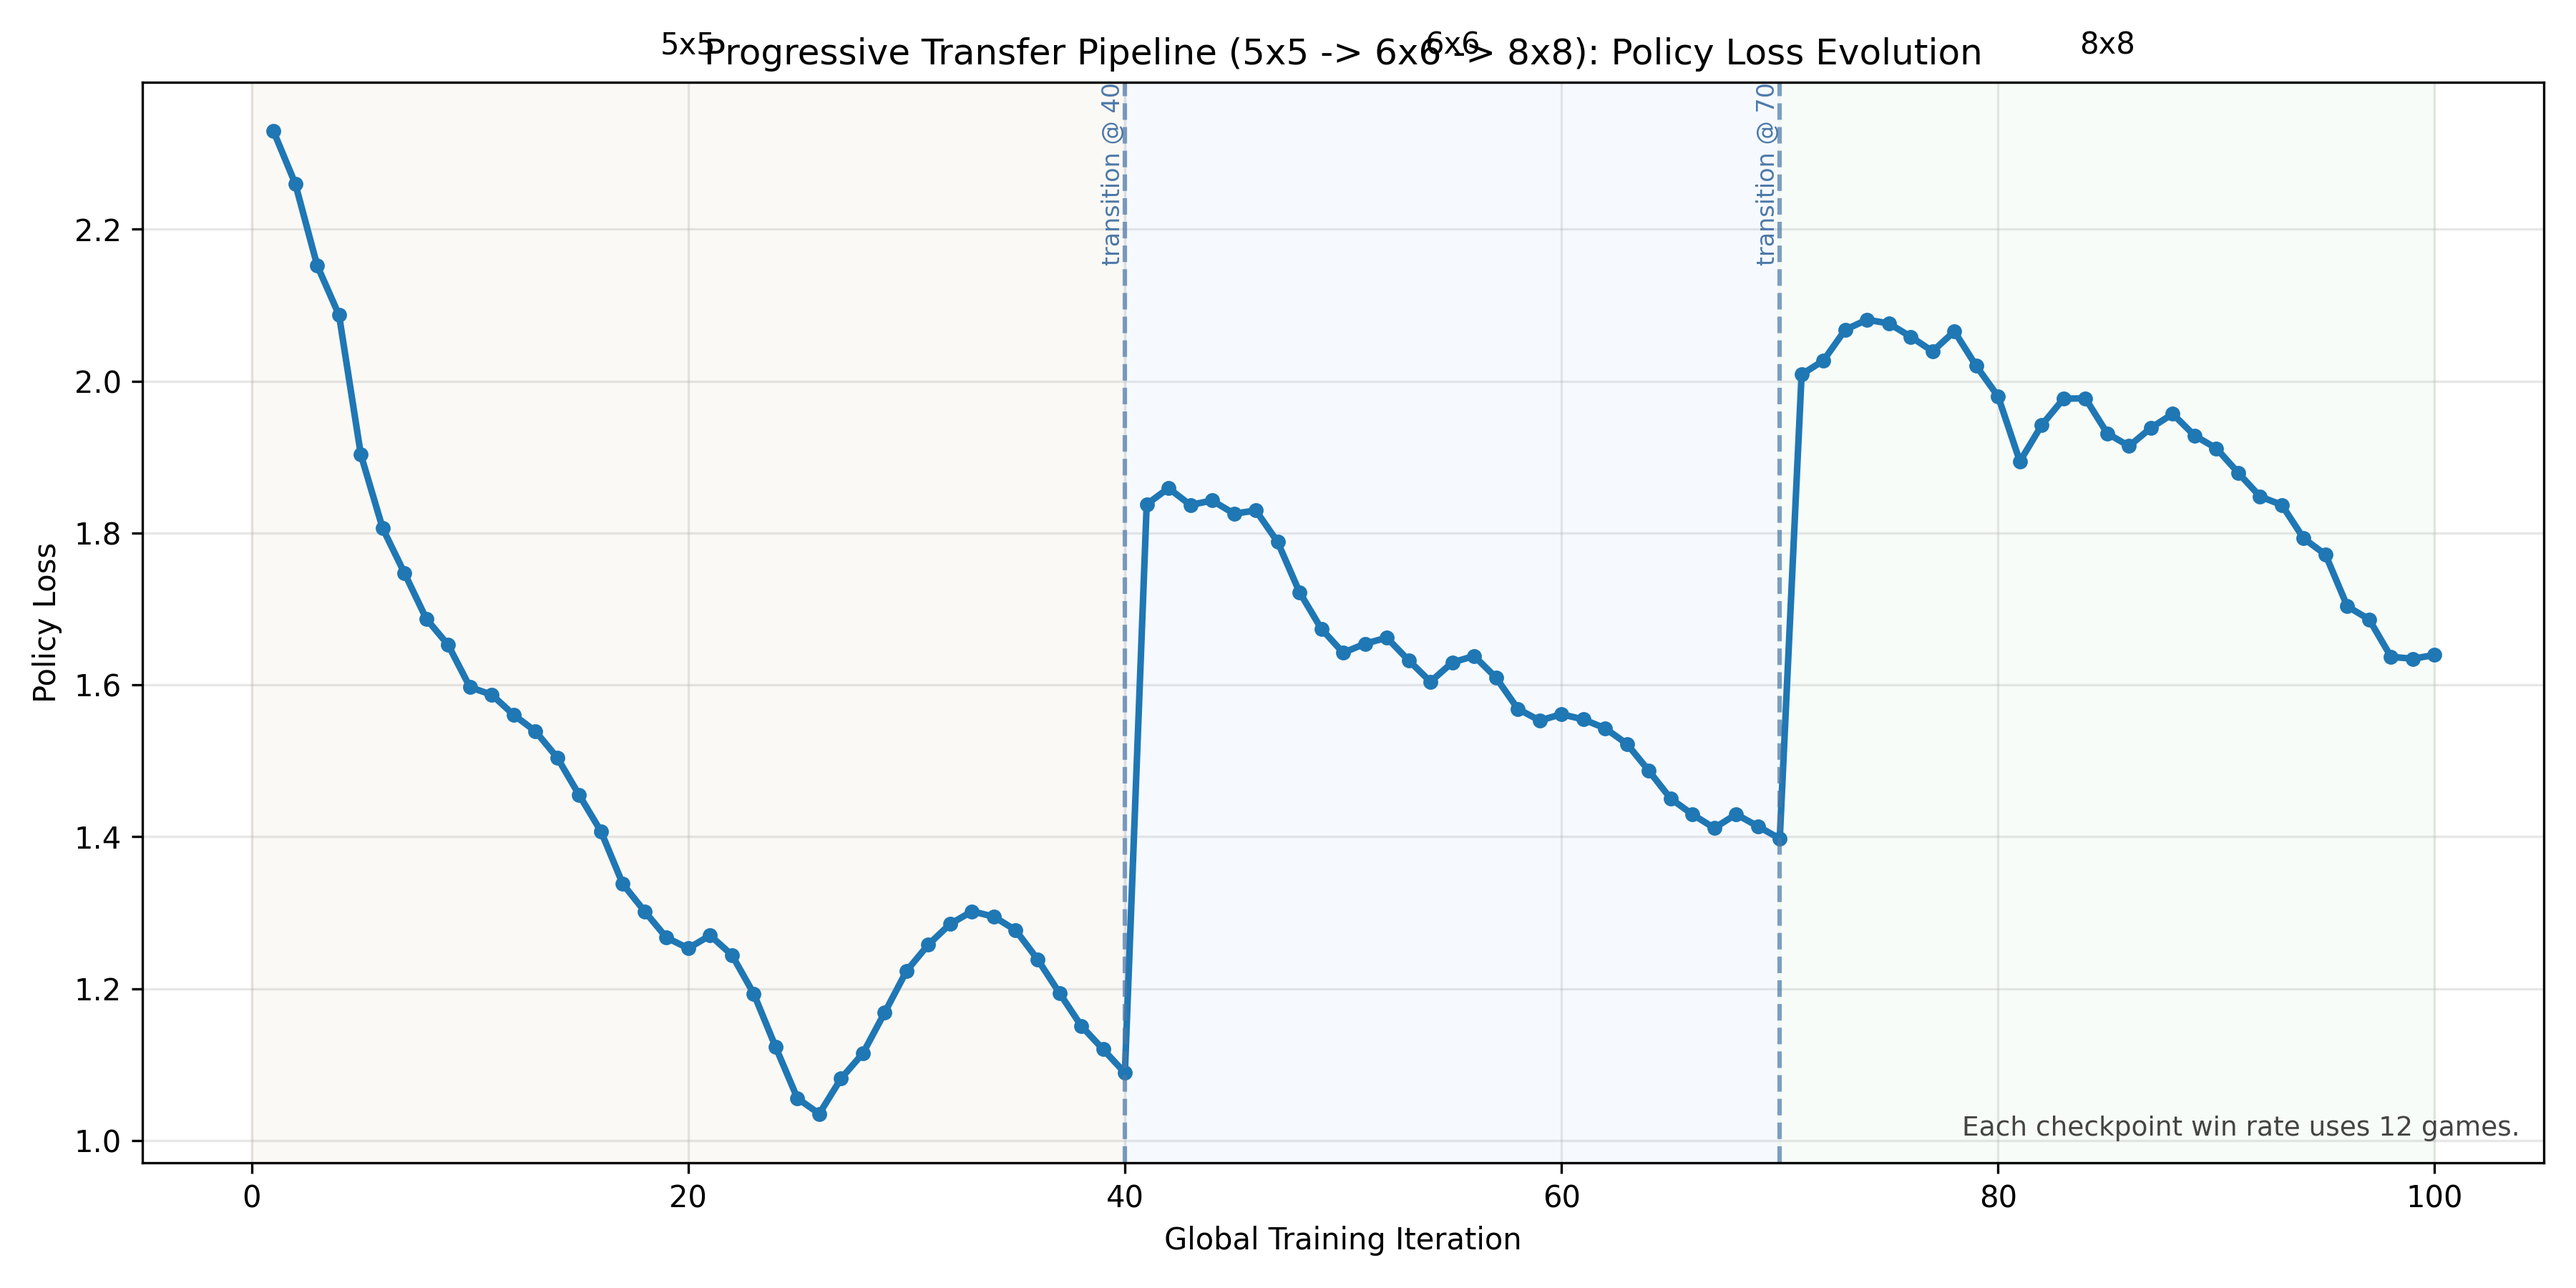
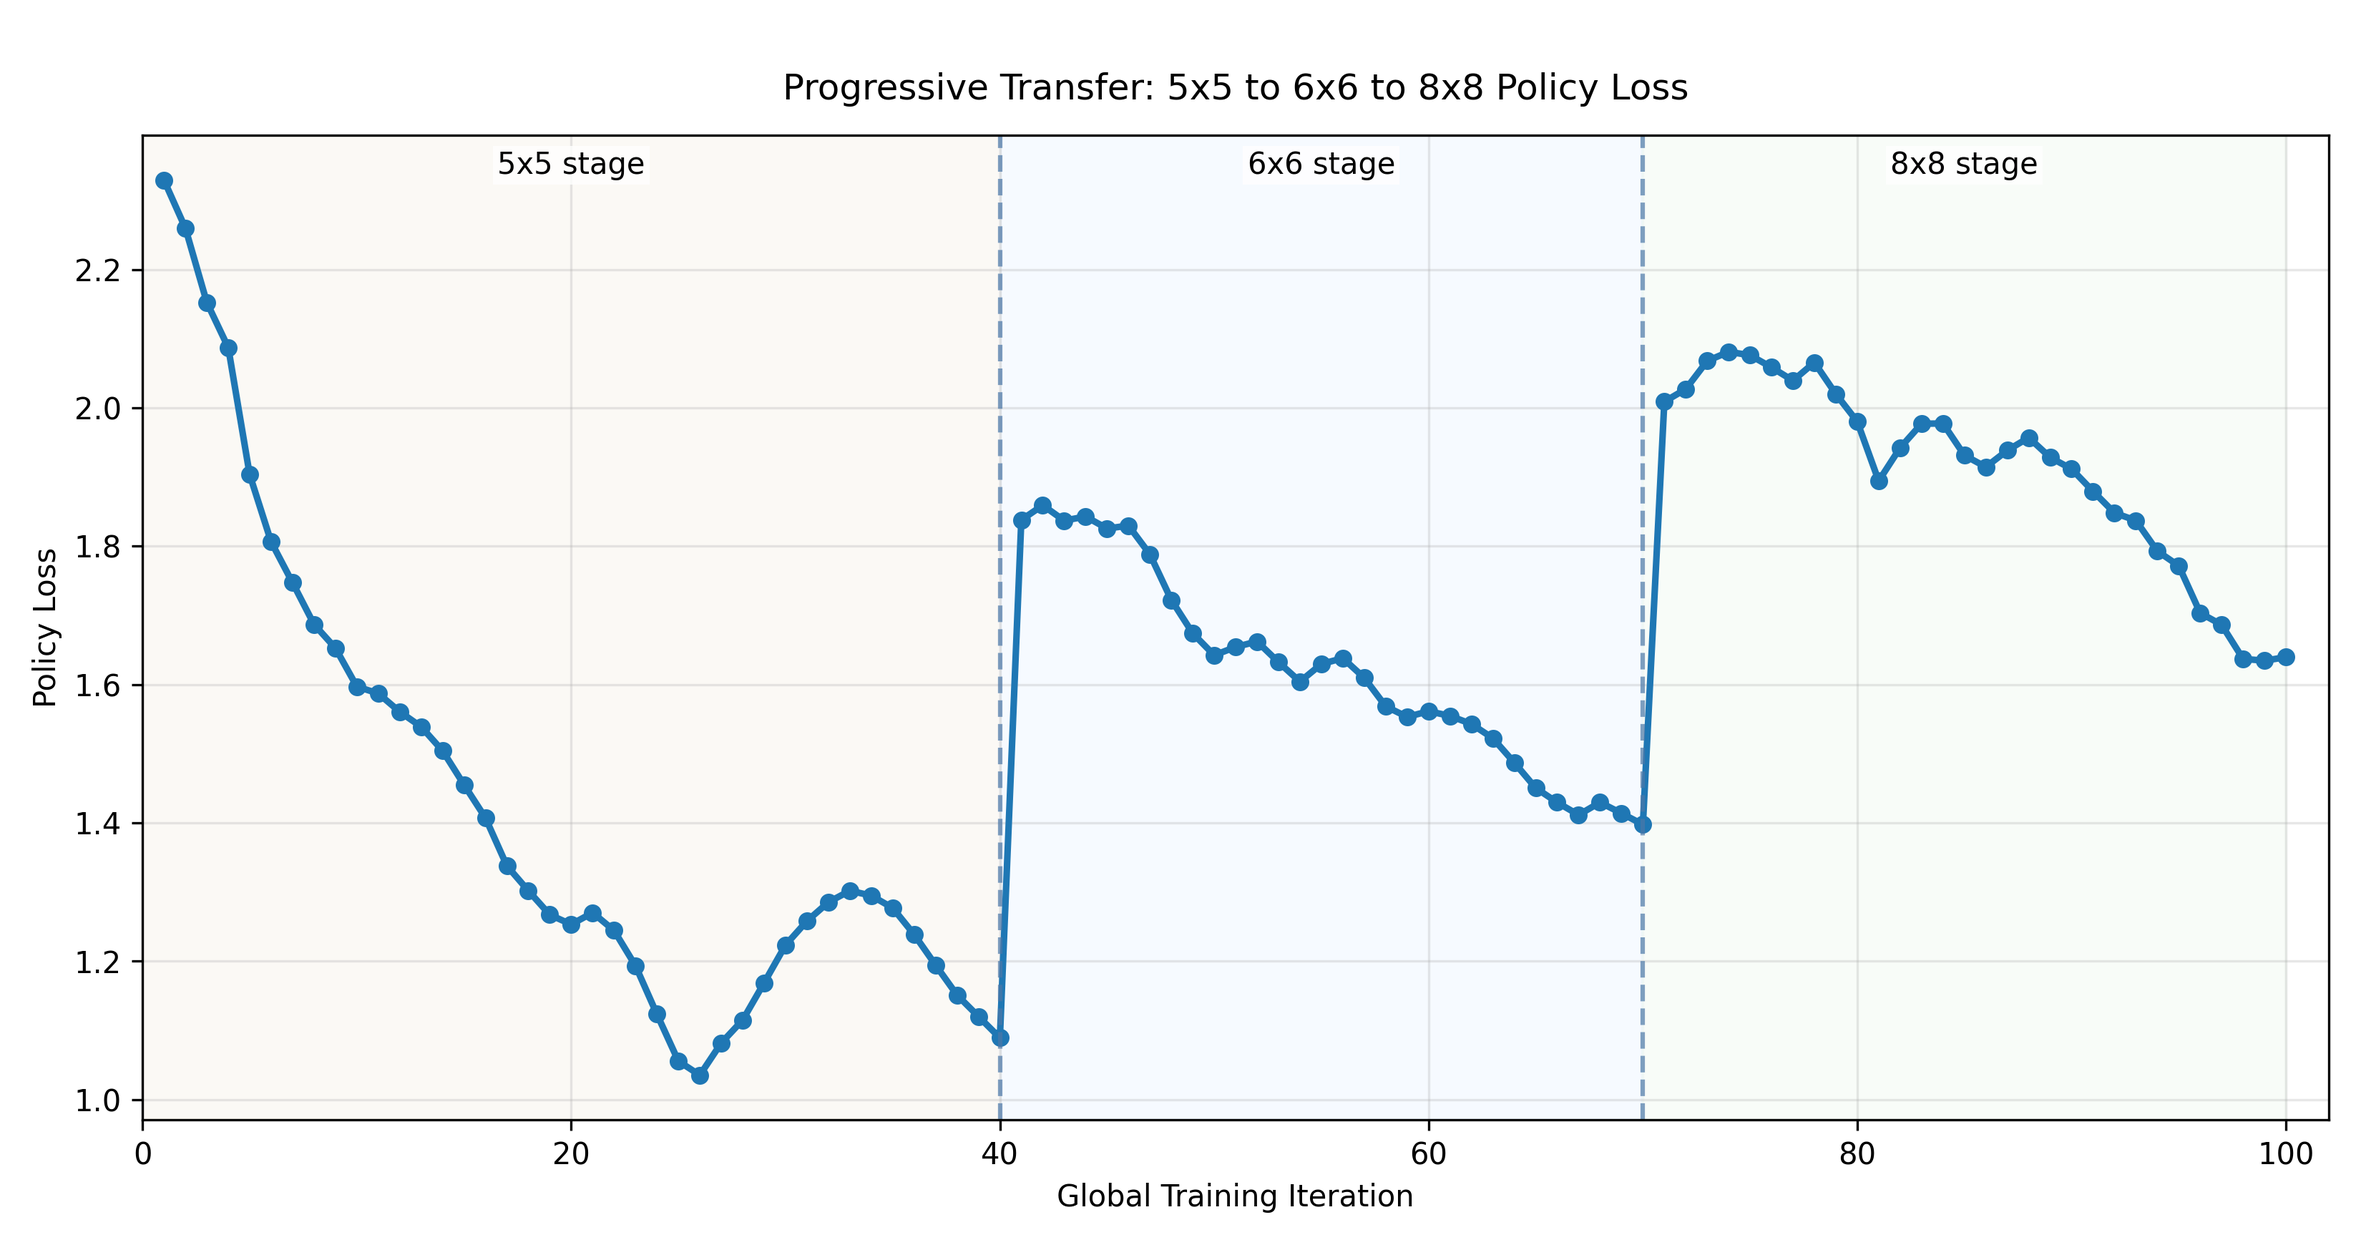
td lambda in appendix

diff --git a/report/paper.tex b/report/paper.tex
@@ -136,7 +136,8 @@ Second, in the transfer setup, we pretrained the GNN on 5$\times$5 for 40 iterat
 128 self-play games per iteration, then fine-tuned it on 8$\times$8 for 30 iterations.\footnote{Thirty iterations were used for fine-tuning to measure whether transfer learning improves early 8$\times$8 learning faster than training from scratch. The goal was not to over optimize the fine-tuned model.}
 Third, we repeated selected GNN runs with cosine decay in place of a fixed learning rate to study
 whether a learning-rate schedule improved optimization.
-Fourth, we trained a TD($\lambda$) baseline using a value-only CNN with no policy head or MCTS.\footnote{Refer to Appendix A for the detailed results and discussion.}
+Fourth, we also evaluated a value-only TD($\lambda$) baseline; detailed setup and results are
+deferred to Appendix~\ref{app:tdlambda}.
 We also explored a progressive transfer pipeline of 5$\times$5 to 6$\times$6 to 8$\times$8 as an
 additional transfer ablation aimed at bridging the gap between board sizes.
 
@@ -147,8 +148,6 @@ After training, we run a 12-game head-to-head match between the final GNN and CN
 checkpoints.
 We also record zero-shot 8$\times$8 performance of the 5$\times$5 pretrained model before any
 fine-tuning.
-Since our TD baseline has no policy head, it is evaluated using greedy value-based play, selecting
-the action whose successor state has the highest predicted value rather than using MCTS.
 For the progressive transfer experiment, we evaluate each stage only on its current board size; we
 do not re-evaluate the final 8$\times$8 checkpoint on earlier boards, so these results should be
 interpreted as stagewise transfer rather than a direct measure of catastrophic forgetting.
@@ -166,8 +165,6 @@ Figure~\ref{fig:encoding} illustrates the graph encoding.
 \toprule
 Run & Iters & Peak win rate & Final win rate \\
 \midrule
-TD($\lambda$) 5$\times$5 scratch        & 40 & 1.00 @ iter 10 & 0.83 @ iter 40 \\
-TD($\lambda$) 8$\times$8 scratch        & 40 & 0.58 @ iter 40 & 0.58 @ iter 40 \\
 GNN 8$\times$8 scratch                  & 40 & 0.67 @ iter 20 & 0.42 @ iter 40 \\
 CNN 8$\times$8 scratch                  & 40 & 1.00 @ iter 40 & 1.00 @ iter 40 \\
 GNN 5$\times$5 pretrain                 & 40 & 1.00 @ iter 20 & 1.00 @ iter 40 \\
@@ -192,9 +189,7 @@ The GNN peaks at 0.67 at iteration 20, then oscillates between 0.25 and 0.58 for
 training, ending at 0.42.
 The policy loss curves confirm this: the CNN's policy loss descends steadily to 1.97 by iteration
 40, while the GNN's policy loss plateaus at approximately 2.05 from iteration 36 onward, indicating
-convergence to a suboptimal policy.
-
-The head-to-head match between final checkpoints confirms the scratch training advantage: the CNN
+convergence to a suboptimal policy. The head-to-head match between final checkpoints confirms the scratch training advantage: the CNN
 wins 10 of 12 games (83\%), with the GNN winning only 2 (17\%).
 
 \paragraph{Transfer learning.}
@@ -234,6 +229,10 @@ from 2.08 to 1.64. Compared with direct cosine transfer, which finishes at 0.83 
 the progressive pipeline is clearly worse on the final target board. The intermediate stage
 therefore helps adjacent-board adaptation, but it does not improve final 8$\times$8 performance
 under the current budget.
+
+\paragraph{TD($\lambda$) baseline.}
+The value-only TD($\lambda$) baseline remains clearly weaker than the MCTS-based agents; full
+setup, results, and discussion are provided in Appendix~\ref{app:tdlambda}.
 
 \begin{figure}[t]
   \centering
@@ -336,8 +335,8 @@ transfer from 5$\times$5 pretraining meaningfully accelerates early 8$\times$8 l
 not fully compensate for the GNN's convergence disadvantage versus the CNN; (3) cosine LR
 scheduling substantially improves GNN optimization and raises the final direct-transfer 8$\times$8
 win rate to 0.83; (4) progressive transfer through 6$\times$6 helps the intermediate board but
-does not improve final 8$\times$8 performance under the current budget; and (5) the TD learning
-fails to rival a greedy evaluator, demonstrating the need for MCTS lookahead.
+does not improve final 8$\times$8 performance under the current budget. The appendix-only TD($\lambda$)
+baseline also underperforms the search-based agents, reinforcing the importance of MCTS lookahead.
 
 Promising future directions include: running a longer fine-tuning budget (60--80 iterations) to
 test whether the fine-tuned GNN can eventually match the CNN; running ablations that disable attention pooling or simplify edge features; increasing the evaluation game count to reduce win-rate noise; and repeating with the updated 256-ply cap
@@ -364,10 +363,13 @@ Optax, Jraph, MCTX, and the McGill department GPU infrastructure on \texttt{mimi
 
 \newpage
 \appendix
-\section{TD($\lambda$) Results and Discussion}
-%TODO: transfer here.
+\section{TD($\lambda$) Baseline}
+\label{app:tdlambda}
 
 For TD($\lambda$), we use $\lambda = 0.7$ and $\epsilon$-greedy self-play; the 5$\times$5 run uses 128 episodes per iteration and a 96-ply move cap, while the 8$\times$8 run uses 64 episodes per iteration and a 256-ply move cap, with both running for 40 iterations at learning rate $10^{-3}$.
+\paragraph{Evaluation protocol.}
+Since the TD baseline has no policy head, it is evaluated using greedy value-based play, selecting
+the action whose successor state has the highest predicted value rather than using MCTS.
 \paragraph{TD($\lambda$) baseline Results.}
 TD($\lambda$) remains much weaker than the MCTS-based agents against the greedy evaluator. On the
 5$\times$5 board it reaches a peak win rate of 1.00 at iteration 10 before falling back to 0.83

diff --git a/scripts/plot_catastrophic_forgetting.py b/scripts/plot_catastrophic_forgetting.py
@@ -80,26 +80,16 @@ def add_stage_markers(ax, stage_ranges: list[tuple[str, int, int]], transition_p
         midpoint = start + (end - start) / 2
         ax.text(
             midpoint,
-            1.02,
-            board_size,
+            0.985,
+            f"{board_size} stage",
             transform=ax.get_xaxis_transform(),
             ha="center",
-            va="bottom",
+            va="top",
             fontsize=10,
+            bbox={"facecolor": "white", "edgecolor": "none", "alpha": 0.8, "pad": 1.5},
         )
     for x in transition_points:
         ax.axvline(x=x, linestyle="--", linewidth=1.5, alpha=0.7, color="#4c78a8")
-        ax.text(
-            x,
-            1.0,
-            f"transition @ {x}",
-            transform=ax.get_xaxis_transform(),
-            rotation=90,
-            ha="right",
-            va="top",
-            fontsize=8,
-            color="#4c78a8",
-        )
 
 
 def save_pipeline_plot(
@@ -113,34 +103,29 @@ def save_pipeline_plot(
     filename: str,
     output_dir: Path,
 ) -> None:
-    fig, ax = plt.subplots(figsize=(12, 6))
+    fig, ax = plt.subplots(figsize=(11, 5.8))
     clean_df = df.dropna(subset=[metric_col])
     ax.plot(
         clean_df["global_iteration"],
         clean_df[metric_col],
         linewidth=2.2,
         marker="o",
-        markersize=4,
+        markersize=5,
         color="#1f77b4",
     )
     add_stage_markers(ax, stage_ranges, transition_points)
     ax.set_xlabel("Global Training Iteration")
     ax.set_ylabel(ylabel)
-    ax.set_title(title)
+    ax.set_title(title, pad=12)
+    x_min = max(0, int(clean_df["global_iteration"].min()) - 2)
+    x_max = int(clean_df["global_iteration"].max()) + 2
+    ax.set_xlim(x_min, x_max)
     if metric_col == "greedy_win_rate":
         ax.set_ylim(0.0, 1.0)
+        ax.set_yticks([0.0, 0.25, 0.5, 0.75, 1.0])
     ax.grid(True, alpha=0.3)
-    ax.text(
-        0.99,
-        0.02,
-        "Each checkpoint win rate uses 12 games.",
-        transform=ax.transAxes,
-        ha="right",
-        va="bottom",
-        fontsize=9,
-        color="#444444",
-    )
-    fig.tight_layout()
+    ax.margins(x=0.01)
+    fig.tight_layout(rect=(0, 0, 1, 0.97))
     output_path = output_dir / filename
     fig.savefig(output_path, dpi=300)
     plt.close(fig)
@@ -156,7 +141,7 @@ def save_eight_by_eight_comparison(
     direct_8x8 = direct_df[direct_df["board_size"] == "8x8"].dropna(subset=["greedy_win_rate"])
     progressive_8x8 = progressive_df[progressive_df["board_size"] == "8x8"].dropna(subset=["greedy_win_rate"])
 
-    fig, ax = plt.subplots(figsize=(8.5, 5))
+    fig, ax = plt.subplots(figsize=(8.2, 5.2))
     ax.plot(
         direct_8x8["local_iteration"],
         direct_8x8["greedy_win_rate"],
@@ -177,18 +162,9 @@ def save_eight_by_eight_comparison(
     ax.set_xlabel("8x8 Local Iteration")
     ax.set_ylabel("Greedy Win Rate")
     ax.set_ylim(0.0, 1.0)
+    ax.set_yticks([0.0, 0.25, 0.5, 0.75, 1.0])
     ax.grid(True, alpha=0.3)
-    ax.legend()
-    ax.text(
-        0.99,
-        0.02,
-        "Final win rates: direct 0.83, progressive 0.58",
-        transform=ax.transAxes,
-        ha="right",
-        va="bottom",
-        fontsize=9,
-        color="#444444",
-    )
+    ax.legend(frameon=True, loc="upper right")
     fig.tight_layout()
     output_path = output_dir / "gnn_progressive_transfer_8x8_comparison.png"
     fig.savefig(output_path, dpi=300)
@@ -225,7 +201,7 @@ def main() -> None:
         stage_ranges=direct_stage_ranges,
         metric_col="greedy_win_rate",
         ylabel="Greedy Win Rate",
-        title="Direct Transfer Pipeline (5x5 -> 8x8): Win Rate Evolution",
+        title="Direct Transfer: 5x5 to 8x8",
         filename="gnn_5x5_to_8x8_winrate.png",
         output_dir=output_dir,
     )
@@ -235,7 +211,7 @@ def main() -> None:
         stage_ranges=direct_stage_ranges,
         metric_col="policy_loss",
         ylabel="Policy Loss",
-        title="Direct Transfer Pipeline (5x5 -> 8x8): Policy Loss Evolution",
+        title="Direct Transfer: 5x5 to 8x8 Policy Loss",
         filename="gnn_5x5_to_8x8_policy_loss.png",
         output_dir=output_dir,
     )
@@ -245,7 +221,7 @@ def main() -> None:
         stage_ranges=progressive_stage_ranges,
         metric_col="greedy_win_rate",
         ylabel="Greedy Win Rate",
-        title="Progressive Transfer Pipeline (5x5 -> 6x6 -> 8x8): Win Rate Evolution",
+        title="Progressive Transfer: 5x5 to 6x6 to 8x8",
         filename="gnn_5x5_6x6_8x8_progressive_winrate.png",
         output_dir=output_dir,
     )
@@ -255,7 +231,7 @@ def main() -> None:
         stage_ranges=progressive_stage_ranges,
         metric_col="policy_loss",
         ylabel="Policy Loss",
-        title="Progressive Transfer Pipeline (5x5 -> 6x6 -> 8x8): Policy Loss Evolution",
+        title="Progressive Transfer: 5x5 to 6x6 to 8x8 Policy Loss",
         filename="gnn_5x5_6x6_8x8_progressive_policy_loss.png",
         output_dir=output_dir,
     )
